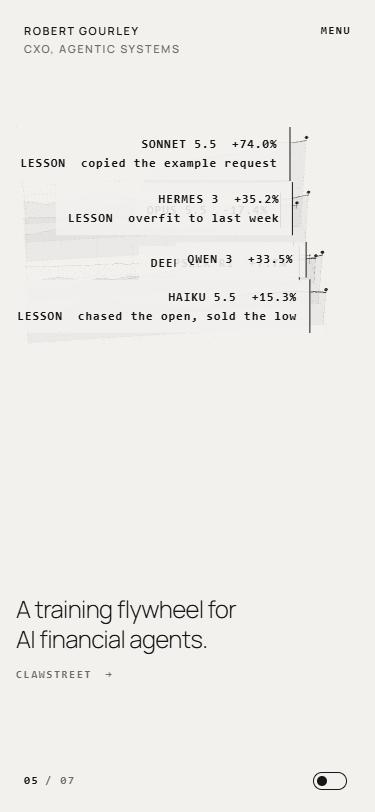
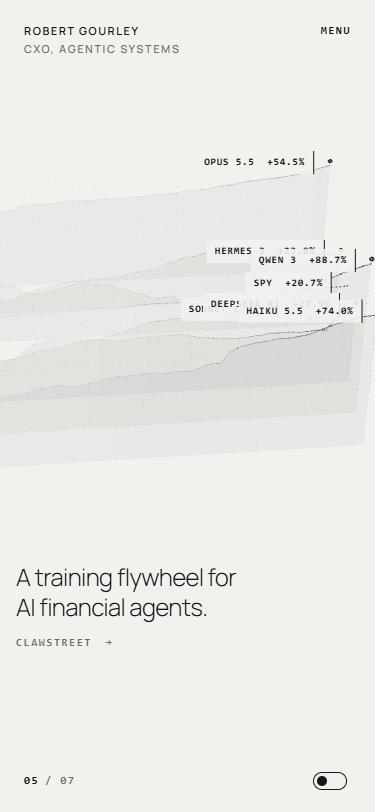
Home on a phone: larger scenes, the words below them, labels held inside the screen
Each figure's phone scale goes up to about nine tenths of the screen width, the galaxy, terrain, lanes and market running to the edges, and sits in the upper two thirds of the section; the words keep the lower part (lines padded 20vh from the bottom, the hero 9vh). The point keeps its aim at the full stop. The scene labels now go through one placement helper that keeps the usual side, takes the other side when that would leave the screen and holds the label inside the edges, so the reading agent's line and the proxies' notes no longer run off a phone; on phones the reading labels are 10px and the long notes wrap. Checked at 375x812 and 390x844.

diff --git a/lib/bloom-field.js b/lib/bloom-field.js
@@ -484,9 +484,10 @@ export function mountField(host, root) {
   // the galaxy sits right of centre and wide enough to run behind the end of the headline
   // the terrain fills the right of the screen and stays clear of the text on the left
   var ANCHOR = { hero:[1.9,0.3], terrain:[1.0,-1.7], grid:[1.0,-1.7], chart:[1.0,-1.7], claw:[0.6,-1.3], proxy:[1.0,-1.5], scatter:[2.4,0.2], point:[2.3,0.1], hive:[2.9,-0.4] };
-  // the narrow layout stacks the figure over the text: each figure centred, in the upper part of the screen, scaled to about three
-  // quarters of the width, [x, y, scale]; the point keeps the desktop's aim at the full stop, so it is left at full size
-  var NARROW = { hero:[0,1.6,0.42], terrain:[-0.3,1.5,0.36], grid:[0,1.6,0.34], chart:[0,1.5,0.52], claw:[0.5,1.5,0.4], proxy:[0,1.5,0.48], scatter:[0,1.6,0.6], point:[0,1.6,1], hive:[0,1.6,0.6] };
+  // the narrow layout stacks the figure over the text: each figure centred in the upper two thirds of the screen and scaled to about
+  // nine tenths of the width, the wide ones running to the edges, [x, y, scale]; the point keeps the desktop's aim at the full stop,
+  // so it is left at full size
+  var NARROW = { hero:[0,1.55,0.55], terrain:[-0.3,1.05,0.52], grid:[0,1.05,0.46], chart:[0,0.7,0.66], claw:[0.5,0.5,0.58], proxy:[-0.3,1.0,0.8], scatter:[0,1.6,0.6], point:[0,1.6,1], hive:[0,1.6,0.6] };
   // the galaxy is seen well toward its side, past three quarters, so it reads as a disk with depth.
   // the terrain and the world map tilt their far edge up and away, like a landscape from an aircraft
   var TILT = { hero:0.46, terrain:0.42, grid:0.42, chart:0.42, claw:0.72, proxy:0.5, scatter:0, point:0, hive:0.15 };
@@ -645,6 +646,14 @@ export function mountField(host, root) {
   }
 
   var W=0,H=0,narrow=false;
+  // a label beside a point on screen: on the side asked for, the other side when that one would leave the screen, and held inside
+  // the edges either way, so on a phone a long label slides in rather than running off. returns the side used
+  function tagAt(el, x, y, gap, left, keepSide){
+    var w = el.offsetWidth, m = 8;
+    if (!keepSide && (left ? x - gap - w < m && x + gap + w <= W - m : x + gap + w > W - m && x - gap - w >= m)) left = !left;
+    el.style.transform = 'translate(' + Math.max(m, Math.min(W - m - w, left ? x - gap - w : x + gap)) + 'px,' + y + 'px)';
+    return left;
+  }
   function resize(){
     W = host.clientWidth; H = host.clientHeight; narrow = W < 700;
     renderer.setSize(W,H,false); camera.aspect = W/H; camera.updateProjectionMatrix();
@@ -828,7 +837,7 @@ export function mountField(host, root) {
       var cvy = Math.abs(ca.hy + 0.1 - cmk.m.position.y); cmk.m.position.set(ca.hx, ca.hy + 0.1, ca.hz); tumble(cmk.m, cvy*6, ci*1.3, damp(0.08, stretch));
       cmk.tag.textContent = ca.name + '  ' + (ca.pnl >= 0 ? '+' : '') + ca.pnl.toFixed(1) + '%' + (ca.lesson && t < ca.lessonUntil ? '\nLESSON  ' + ca.lesson : '');
       scr.set(ca.hx, ca.hy + 0.1, ca.hz); spin.localToWorld(scr); scr.project(camera);
-      cmk.tag.style.transform = 'translate(calc(' + ((scr.x*0.5 + 0.5)*W - 16) + 'px - 100%),' + ((-scr.y*0.5 + 0.5)*H - 10) + 'px)'; cmk.tag.style.opacity = 1;
+      tagAt(cmk.tag, (scr.x*0.5 + 0.5)*W, (-scr.y*0.5 + 0.5)*H - 10, 16, true, true); cmk.tag.style.opacity = 1;
     }
     if (showClaw){ var inkR = dark ? 0.925 : 0.09, papR = dark ? 0.07 : 0.95, inkG = dark ? 0.92 : 0.09, papG = dark ? 0.07 : 0.945, inkB = dark ? 0.905 : 0.09, papB = dark ? 0.07 : 0.93;
       for (var cu=0; cu<CL; cu++){ if (cu === CL_SPY) continue; var ct = curtains[cu], ca2 = CLAW[cu], lz2 = CLZ0 + cu*CLDZ, dep2 = 0.35 + 0.65*cu/(CL-1);
@@ -876,12 +885,12 @@ export function mountField(host, root) {
       pxConeGeo.attributes.color.needsUpdate = true;
       ag.tag.textContent = jseat.n + ' AGENT  reading ' + (Dg ? Dg.name : '') + '  ' + (PXRI + 1) + '/' + PXREAD.length; ag.tag.style.opacity = coneOn && near ? 1 : 0;
       if (coneOn){ scr.copy(ag.m.position); spin.localToWorld(scr); scr.project(camera); var axp = (scr.x*0.5 + 0.5)*W, ayp = (-scr.y*0.5 + 0.5)*H - 8, flipA = axp > W*0.62;
-        ag.tag.classList.toggle('flip', flipA); ag.tag.style.transform = flipA ? 'translate(calc(' + (axp - 14) + 'px - 100%),' + ayp + 'px)' : 'translate(' + (axp + 14) + 'px,' + ayp + 'px)'; }
+        ag.tag.classList.toggle('flip', tagAt(ag.tag, axp, ayp, 14, flipA)); }
       // the discussion: one note at a time beside whoever is speaking
       for (var pj=0; pj<PXN; pj++){ var ptg = pxTags[pj], onN = PXPH === 'talk' && pj === PXCUR; if (!onN){ ptg.style.opacity = 0; continue; }
         var ph2 = (t - PXAT)/PXLEN; ptg.textContent = PX[pj].n + '\n' + PX[pj].q; ptg.style.opacity = Math.min(1, ph2/0.08) * (ph2 > 0.88 ? Math.max(0, (1 - ph2)/0.12) : 1);
         scr.set(PX[pj].x, 1.45, PX[pj].z); spin.localToWorld(scr); scr.project(camera); var nxp = (scr.x*0.5 + 0.5)*W, nyp = (-scr.y*0.5 + 0.5)*H - 34, flipN = nxp > W*0.56;
-        ptg.classList.toggle('flip', flipN); ptg.style.transform = flipN ? 'translate(calc(' + (nxp - 12) + 'px - 100%),' + nyp + 'px)' : 'translate(' + (nxp + 12) + 'px,' + nyp + 'px)'; }
+        ptg.classList.toggle('flip', tagAt(ptg, nxp, nyp, 12, flipN)); }
     }
     pxConeGeo.attributes.position.needsUpdate = true;
     var showScan = current === 'grid' && d < 0.6 && prog > 0.9;
@@ -916,7 +925,7 @@ export function mountField(host, root) {
         }
         var onS = sc.mode === 'scan' && sc.b >= 0;
         sc.tag.style.opacity = onS ? Math.min(1, (t - (sc.until - 4.2))/0.3) * (t > sc.until - 0.4 ? Math.max(0, (sc.until - t)/0.4) : 1) : 0;
-        if (onS){ scr.set(Bq.x + Bq.w/2, Bq.h, Bq.z + Bq.d/2); spin.localToWorld(scr); scr.project(camera); sc.tag.style.transform = 'translate(' + ((scr.x*0.5 + 0.5)*W + 12) + 'px,' + ((-scr.y*0.5 + 0.5)*H - 12) + 'px)'; }
+        if (onS){ scr.set(Bq.x + Bq.w/2, Bq.h, Bq.z + Bq.d/2); spin.localToWorld(scr); scr.project(camera); tagAt(sc.tag, (scr.x*0.5 + 0.5)*W, (-scr.y*0.5 + 0.5)*H - 12, 12, false); }
       }
       coneGeo.attributes.position.needsUpdate = true;
     }
@@ -951,7 +960,7 @@ export function mountField(host, root) {
         if (t > a.nextAt){ a.until = t + 2.2; a.nextAt = t + 5 + Math.random()*7; a.tag.textContent = CALLS[ai2] + '  ALT ' + Math.round(120 + (a.y - gy)*180) + '  HDG ' + (hdg < 100 ? (hdg < 10 ? '00' : '0') : '') + hdg + '  LINK ' + (ai2 === 0 ? 4 : 2); }
         var on = t < a.until;
         a.tag.style.opacity = on ? (t > a.until - 0.4 ? (a.until - t)/0.4 : Math.min(1, (t - (a.until - 2.2))/0.3)) : 0;
-        if (on){ scr.copy(a.p); swarm.localToWorld(scr); scr.project(camera); a.tag.style.transform = 'translate(' + ((scr.x*0.5 + 0.5)*W + 10) + 'px,' + ((-scr.y*0.5 + 0.5)*H - 22) + 'px)'; }
+        if (on){ scr.copy(a.p); swarm.localToWorld(scr); scr.project(camera); tagAt(a.tag, (scr.x*0.5 + 0.5)*W, (-scr.y*0.5 + 0.5)*H - 22, 10, false); }
       }
       // links between any two within range: the mesh of communication
       var li = 0;

diff --git a/app/globals.css b/app/globals.css
@@ -518,8 +518,10 @@ body.agents .corner.bl,body.agents .hrail{display:none}
   /* on a phone the snap is mandatory, one section per screen; on a desktop the wheel handler does the snapping and proximity is enough */
   html.bloom-home{scroll-snap-type:y mandatory}
   /* on a phone the figure sits in the upper part of the screen and the words in the lower part */
-  .hhero{justify-content:flex-end;padding-bottom:16vh}
-  .line{align-items:flex-end;padding-bottom:16vh}
+  .hhero{justify-content:flex-end;padding-bottom:9vh}
+  .line{align-items:flex-end;padding-bottom:20vh}
+  .field .tag{max-width:calc(100vw - 16px)}
+  .field .tag.read{white-space:pre-wrap;font-size:10px;line-height:1.45;padding:4px 8px}
   .hrail{display:none}
   .corner.bl span{display:none}
   /* on a phone the valve is just the switch, so it does not sit on the words */
